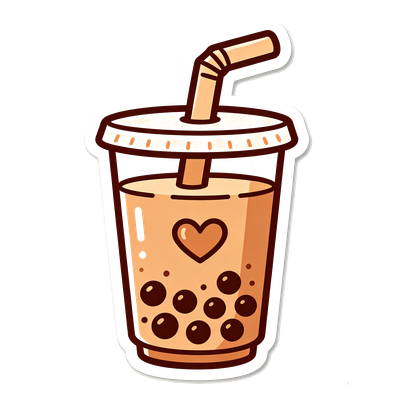
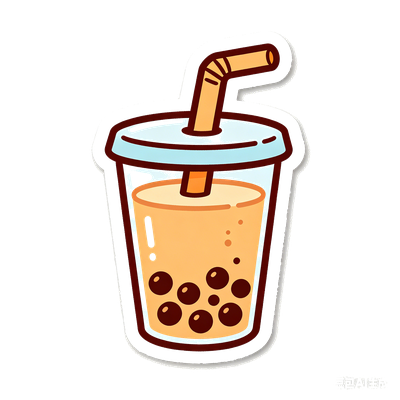
Update descriptions, fix line breaks, replace milktea image, darken card border
- Sync all 16 food descriptions from Obsidian draft
- Fix description rendering: split on \n instead of \n\n
- Fix calorieCompare line break: whitespace-pre-line + leading-snug
- Replace milktea image with new sticker illustration
- Darken result card border from orange-100 to orange-300

Changed region(s): [[0.24, 0.06, 0.78, 0.96]]

diff --git a/lib/data.ts b/lib/data.ts
@@ -20,83 +20,83 @@ export interface Food {
 export const FOODS: Food[] = [
   {
     id: "taoso", name: "桃酥", emoji: "🥮", vector: [0, 0, 0, 0],
-    description: "不是所有人都懂你的好，而你也不需要所有人懂。你就这样酥酥脆脆地保持自我，等着某一天某一个人突然长大了悟到了你的美味。你是被时间筛选过的垃圾食品，虽然吃完一地碎屑也不好清理。\n\n桃酥最好是配茶？配咖啡？还是什么都不用配 做自己最好了。\n\n依稀记得某溪河还是某记桃酥有创新口味来着？但只有原味纯粹的你最有记忆点。",
-    portion: "3块 ≈ 150g", kcal: 721, calorieCompare: "≈ 45根黄瓜（全部吃完要4小时）",
+    description: "不是所有人都懂你的好，而你也不需要所有人懂。你就这样酥酥脆脆地保持自我，等着某一天某一个人突然长大了悟到了你的美味。你是被时间筛选过的垃圾食品，虽然吃完一地碎屑也不好清理。\n桃酥最好是配茶？配咖啡？还是什么都不用配 做自己最好了。\n依稀记得某溪河还是某记桃酥有创新口味来着，但似乎只有原味纯粹的你最有记忆点。",
+    portion: "3块 ≈ 150g", kcal: 721, calorieCompare: "≈ 45根黄瓜\n（全部吃完要4小时）",
   },
   {
     id: "crayfish", name: "小龙虾", emoji: "🦞", vector: [0, 0, 0, 2],
-    description: "你是夏天限定版的美味。你的出现就是传说，人类念起你的名字就会自动分泌唾液。不当季的时候也会时常被记挂，只要到了那个季节，那个夜晚，那群人，根本停不下来。壳厚肉甜，费劲但值得。你的信徒知道为什么。\n\n最近好像有啥新东西一直在蹭你的热度，呃是啥来着？不重要，你自有你的鲜香麻辣/蒜香油润。",
-    portion: "一份带壳 ≈ 500g，净肉约200g", kcal: 230, calorieCompare: "≈ 3个水煮蛋（剥壳消耗的热量已经快抵消了）",
+    description: "你是夏天限定版的美味。你的出现就是传说。人类念起你的名字就会自动分泌唾液。不当季的时候也会时常被记挂，只要到了那个季节，那个夜晚，那群人，根本停不下来。壳厚肉甜，费劲但值得。\n最近好像有啥新东西一直在蹭你的热度，呃是啥来着？不重要，你自有你的鲜香麻辣/蒜香油润。",
+    portion: "一份带壳 ≈ 500g，净肉约200g", kcal: 230, calorieCompare: "≈ 3个水煮蛋\n（剥壳消耗的热量已经快抵消了）",
   },
   {
     id: "salad", name: "多酱版鸡胸肉沙拉", emoji: "🥗", vector: [0, 0, 2, 0],
-    description: `你是垃圾食品里的异类。表面健康自律，满满都是蛋白质和纤维素。但点击"多放沙拉酱"选项也是人之常情吧、、你从不会标榜自己是什么垃圾食品，但你从来没骗过任何人。只是有些真相，不说而已。\n\n号称身材管理的人将你视若珍宝，但你只默默地当带刺玫瑰。"有本事不加酱，小心得厌食症。"你如是说。`,
-    portion: "一份加酱 ≈ 350g", kcal: 420, calorieCompare: "≈ 8个西红柿（但那勺沙拉酱独自贡献了150kcal）",
+    description: `你是垃圾食品里的异类。表面健康自律，满满都是蛋白质和纤维素。但选择"多放沙拉酱"也是人之常情吧、、你不主动宣传自己有多垃圾，但你从来没骗过任何人。只是有些真相，不说而已。\n号称身材管理的人将你视若珍宝，但你只默默地当带刺玫瑰。"有本事不加酱，小心得厌食症。"你如是说。`,
+    portion: "一份加酱 ≈ 350g", kcal: 420, calorieCompare: "≈ 8个西红柿\n（但沙拉酱独自贡献了200kcal）",
   },
   {
     id: "noodles", name: "泡面", emoji: "🍜", vector: [0, 0, 2, 2],
-    description: `深夜十二点，开水倒进去，整个房间充斥着迷人危险气息。室友会忍不住问"能给我来一口吗"。其实你不耀眼，包装也没有什么说头，但那一刻谁都知道你是正确答案。其实也有很多人莫名其妙隔一段时间就想到你。\n\n毕竟不需要洗餐具。但人类请记得把吃剩的面汤倒厕所后再丢弃。`,
-    portion: "一包含料包 ≈ 100g", kcal: 460, calorieCompare: "≈ 28根黄瓜（深夜的正确答案，黄瓜做不到）",
+    description: `深夜十二点，开水倒进去，整个房间充斥着迷人危险气息。室友会忍不住问"能给我来一口吗"。其实你不耀眼，包装也没有什么说头，但那一刻谁都知道你是正确答案。其实也有很多人莫名其妙隔一段时间就想到你。\n毕竟不需要洗餐具。但你总是叮嘱人类请记得把吃剩的面汤倒厕所后再丢弃。`,
+    portion: "一包含料包 ≈ 100g", kcal: 460, calorieCompare: "≈ 28根黄瓜\n（深夜的满足感，黄瓜给不了）",
   },
   {
     id: "milktea", name: "奶茶", emoji: "🧋", vector: [0, 2, 0, 0],
-    description: "你是情绪的换算单位。一杯奶茶等于「今天辛苦了」，等于「我们好久没见了」，等于某个秋天下午被需要的感觉。小料有好多好多种，但是如果某个小料今天卖完了，人也不会失望地转头就走，因为只要是你就可以。\n\n大家喜欢你，你也知道大家喜欢你。但是你的底线是：不背刺爱你的人。这一点，你的很多竞品都没有做到。",
-    portion: "一杯全糖含珍珠 ≈ 500ml", kcal: 430, calorieCompare: "≈ 8个苹果（今天辛苦了 = 8个苹果的热量）",
+    description: "你是情绪的换算单位。一杯奶茶等于「今天辛苦了」，等于「我们好久没见了」，等于某个秋天下午被需要的感觉。小料有好多好多种，但是如果今天某个小料卖完了，人也不会失望地转头就走，因为只要是你就可以。\n大家喜欢你，你也知道大家喜欢你。但是你的底线是：不背刺爱你的人。这一点，你的很多竞品都没有做到。",
+    portion: "一杯全糖含珍珠 ≈ 500ml", kcal: 430, calorieCompare: "≈ 8个苹果\n（今天辛苦了 = 8个苹果的热量）",
   },
   {
     id: "fries", name: "薯条", emoji: "🍟", vector: [0, 2, 0, 2],
-    description: "刚出锅的时候是绝对的神。闻到味道，腿就走过去了，脑子还没反应过来。人会花一小时争论哪家做的薯条最好吃，争论无果后逐一买来做测评。\n\n有人爱蘸番茄酱，有人不要酱，但是几乎没人不爱你吧。你以对的温度和咸味出现，然后所有人都说好吃好吃。凉了不行，这一点你坦诚告知。",
-    portion: "中份 ≈ 120g", kcal: 374, calorieCompare: "≈ 23根黄瓜（腿走过去前，脑子没来得及数）",
+    description: "刚出锅的时候是绝对的神。人会花一小时争论哪家做的薯条最好吃，争论无果后逐一买来做测评。还有人闭着眼睛都能吃出你是哪家的出品。\n有人爱蘸番茄酱，有人不要酱，但是几乎没人不爱你吧。你以对的温度和咸味出现，所有人都说美味啊绝顶美味。\n凉了不行。",
+    portion: "中份 ≈ 120g", kcal: 374, calorieCompare: "≈ 23根黄瓜\n（全部吃完之前，脑子没来得及数）",
   },
   {
     id: "paineapple", name: "菠萝油", emoji: "🍞", vector: [0, 2, 2, 0],
-    description: "你不是稀有的，但完美状态的你很稀有。不是每家都做得好，做得好的那家，也不是每次去都刚好赶上出炉。热热的菠萝包，冷藏的黄油，缺一不可。冷遇见热的那一口，两个相悖的口感在嘴里融合升华。\n\n懂你的人会卡着时间去找你，吃完了觉得今天运气不错。不懂的人随便什么时候去，拿到一个凉透了的，觉得也没什么特别。你不怪他们。时机这件事，本来就不是所有人都有耐心等的。",
-    portion: "一个 ≈ 130g", kcal: 455, calorieCompare: "≈ 6个水煮蛋（惊喜感是无价的，热量是有价的）",
+    description: "你不是稀有的，但完美状态的你很稀有。不是每家都做得好，做得好的那家也不是每次去都能赶上刚出炉。热热的菠萝包，冷藏的黄油，缺一不可。两个相悖的口感在嘴里融合升华。\n懂你的人会卡着时间去找你，吃完了觉得今天运气真不错。不懂的人随便买个尝尝，拿到一个凉透了的，觉得没什么特别。\n时机这件事，本来就不是所有人都有耐心等的。",
+    portion: "一个 ≈ 130g", kcal: 455, calorieCompare: "≈ 6个水煮蛋\n（惊喜感是无价的，热量是有价的）",
   },
   {
     id: "icecream", name: "冰淇淋", emoji: "🍦", vector: [0, 2, 2, 2],
-    description: "你存在于各种「不应该」里。肠胃不好不应该，生病不应该，减肥期间不应该，但你被需要的那一刻没有人真的在想这些。吃完心情好了，其他的事情以后再说。\n\n你甜甜的又有各种形态，其实会被路过的小孩眼巴巴扒着玻璃围观。什么gelato什么欧洲冻酸奶什么椰子灰，人总想买来尝尝这玩意啥味儿，想着怎么也不会出错吧，但最后应该都要控诉一块冰碴子凭啥卖这么贵，还是老冰棍最好吃。",
-    portion: "一球/一支 ≈ 100g", kcal: 200, calorieCompare: "≈ 4个苹果（今天豁出去了 = 4个苹果）",
+    description: "你存在于各种「不应该」里。肠胃不好不应该，生病不应该，减肥期间不应该，但你被需要的那一刻没有人真的在想这些。吃完心情好了，别的事情以后再考虑。\n你甜甜的又有各种形态，其实会被路过的小孩眼巴巴扒着玻璃围观。\n什么gelato什么欧洲冻酸奶什么椰子灰，人总想买来尝尝这玩意啥味儿，想着怎么也不会出错吧，但最后应该都要控诉一块冰碴子凭啥卖这么贵，还是老冰棍最好吃。",
+    portion: "一球/一支 ≈ 100g", kcal: 200, calorieCompare: "≈ 4个苹果\n（今日份好心情 = 4个苹果的热量）",
   },
   {
     id: "luosifen", name: "螺蛳粉", emoji: "🍝", vector: [2, 0, 0, 0],
-    description: "你永远不需要为自己辩护。有人一经过门口就皱眉，有人专程坐一个小时地铁来找你。你对这两种人的态度是一样的——爱吃就吃，不吃拉倒。\n\n香气比你先到。这件事你知道，也不打算改。有人叫它臭，有人叫它香，反正都是你，反正都记住了。你不解释，也不挽留。喜欢你的人不需要理由，而且一旦喜欢，就很难回头。\n\n其实螺蛳粉里也可以没有螺蛳，但你的灵魂始终独树一帜。",
-    portion: "一包煮好 ≈ 400g", kcal: 560, calorieCompare: "≈ 35根黄瓜（香气先到，黄瓜永远学不会）",
+    description: "你永远不需要为自己辩护。有人一经过门口就皱眉，有人专程坐一个小时地铁来找你。你对这两种人的态度是一样的——爱吃就吃，不吃拉倒。\n味道比你先到人那里。有人叫它臭，有人叫它香，反正都是你，反正都记住了。你不解释，也不挽留。喜欢你的人不需要理由，而且一旦爱上，就很难回头。\n其实螺蛳粉里也可以没有螺蛳，但你的灵魂始终独树一帜。吃起来应该就是像美食博主测评的一样美妙吧。",
+    portion: "一包煮好 ≈ 400g", kcal: 560, calorieCompare: "≈ 35根黄瓜\n（你的独特魅力，黄瓜永远学不会）",
   },
   {
     id: "soda", name: "汽水", emoji: "🥤", vector: [2, 0, 0, 2],
-    description: "啵——那声开罐声就是你的出场BGM。你根本不需要解释和宣传。第一口最冲，气最足，有点想咳嗽但忍住了。\n\n有人说喝无糖的比较健康。好吧，0糖0脂0卡版的你依然让人上瘾，似乎还有研究表明那些甜味剂更不健康来着（你只是道听途说）。你从没骗过任何人，你只是没主动说清楚。\n\n据说有腐蚀性。嗯，也许吧。谁在乎呢，你好喝。",
-    portion: "一罐 ≈ 330ml", kcal: 140, calorieCompare: "≈ 9根黄瓜（啵一声，9根黄瓜的努力没了）",
+    description: "啵——那声开罐声就是你的出场BGM。你根本无需宣传代言。第一口最冲，气最足，有点想咳嗽但忍住了。\n有人说喝无糖的比较健康。好吧，0糖0脂0卡版的你依然让人上瘾，似乎还有研究表明那些甜味剂更不健康来着（你只是道听途说）。你从没骗过任何人，你只是没主动说清楚。\n据说有腐蚀性。嗯，也许吧。谁在乎呢，你好喝。",
+    portion: "一罐 ≈ 330ml", kcal: 140, calorieCompare: "≈ 9根黄瓜\n（黄瓜能产生气泡吗？）",
   },
   {
     id: "sausage", name: "淀粉肠", emoji: "🌭", vector: [2, 0, 2, 0],
-    description: "你的成分是一个谜，而且是那种查了也不想知道答案的谜。网上每隔一段时间就有人发帖考证你到底是什么做的，评论区吵成一片，然后大家该买还是买。\n\n三块钱一根，五块钱两根。路过就买，不需要理由，也不需要饿。咬下去，外面脆，里面烫，必定烫嘴，每次都烫，每次都没有吸取教训。\n\n你不宣传自己的内在。内在也确实神秘。但烤得金黄焦脆的外皮告诉所有人：来吃，其他的事情不重要。",
-    portion: "一根烤好 ≈ 80g", kcal: 192, calorieCompare: "≈ 2.5个水煮蛋（成分是谜，热量是实）",
+    description: "你的成分是一个谜，而且是那种查了也不想知道答案的谜。网上每隔一段时间就有人发帖考证你到底是什么做的，评论区吵成一片，然后大家该吃还是吃。\n三块钱一根，五块钱两根。路过就买，不需要理由，也不需要饿。咬下去，外面脆，里面烫，必定烫嘴，每次都烫，每次都没有吸取教训。\n你不宣传自己的内在。内在也确实神秘。但烤得金黄焦脆的外皮告诉所有人：来吃。",
+    portion: "一根烤好 ≈ 80g", kcal: 192, calorieCompare: "≈ 2.5个水煮蛋\n（成分是谜，热量是实）",
   },
   {
     id: "latiao", name: "辣条", emoji: "🌶", vector: [2, 0, 2, 2],
-    description: "包装看着凶，颜色看着辣，但吃进嘴里是甜的。你也不是故意讨好小学生。\n\n喜欢你的人有一种共同的记忆——校门口小卖部，五毛钱，伸手就有。撕开的那一瞬，手上沾了红油，随便往哪一蹭，开吃。\n\n有时候是在课堂上。本来打算悄悄吃，结果袋子一撕，全世界都知道了。老师还没说话，同桌已经伸手过来了。你就这样毫无预兆地成为全场焦点。",
-    portion: "一包 ≈ 65g", kcal: 260, calorieCompare: "≈ 16根黄瓜（甜的，但账单很辣）",
+    description: "包装看着凶，颜色看着辣，但吃进嘴里是甜的。你也不是故意讨好小学生。\n喜欢你的人有一种共同的记忆——校门口小卖部，五毛钱，伸手就有。撕开的那一瞬，手上沾了红油，随便往哪一抹，开吃。\n有时候你在课堂上。本来打算悄悄吃，结果袋子一撕，全世界都知道了。老师还没说话，同桌已经伸手过来了。你就这样毫无预兆地成为全场焦点。",
+    portion: "一包 ≈ 65g", kcal: 260, calorieCompare: "≈ 16根黄瓜\n（小孩能忽略的卡路里）",
   },
   {
     id: "chicken", name: "炸鸡", emoji: "🍗", vector: [2, 2, 0, 0],
-    description: `韩剧里总有人在哭着吃炸鸡配啤酒。你不觉得夸张，反而觉得合理。有些情绪不需要被解决，只需要被喂饱。你不是那种需要找理由才能吃的食物，而是人类隔一段时间就会突然非你不可的存在。\n\n你总那么坦荡，不为高热量道歉。不过偶尔品控不稳定或者吃出异物的时候会被喷"热量这么高还敢出错"罢了。`,
-    portion: "两块鸡腿/翅 ≈ 200g", kcal: 540, calorieCompare: "≈ 7个水煮蛋（坦荡，高热量，不道歉）",
+    description: `韩剧里总有人在哭着吃炸鸡配啤酒。你不觉得夸张。有些情绪不需要被解决，只需要被喂饱。你不是那种需要找具体理由才能吃的垃圾食品啦，人类隔一段时间就会突然非你不可。\n你总那么坦荡，不为高热量道歉。不过偶尔品控不稳定或者吃出异物的时候会被喷"热量这么高还敢出错"罢了。`,
+    portion: "两块鸡腿/翅 ≈ 200g", kcal: 540, calorieCompare: "≈ 7个水煮蛋\n（坦荡，高热量，不道歉）",
   },
   {
     id: "chips", name: "薯片", emoji: "🥔", vector: [2, 2, 0, 2],
-    description: "走进超市，零食区最引人注目的就是你。新口味出了很多。蟹黄味、松露味、xx明星联名款、xx城市限定。很热闹。\n\n但购物车里最后加的还是原味。\n\n油炸的，脆脆的，膨化食品，土豆片。一旦拆封就停不下来，你就是这样让人欲罢不能而已。",
-    portion: "一袋 ≈ 75g", kcal: 413, calorieCompare: "≈ 26根黄瓜（拆开袋子，黄瓜已成过去式）",
+    description: "走进超市，零食区最引人注目的就是你。新口味出了很多。蟹黄味、松露味、xx明星联名款、xx城市限定。很热闹。\n但购物车里最后加的还是原味。\n油炸的，脆脆的，膨化食品，土豆片。一旦拆封就停不下来，你就是这样让人欲罢不能而已。",
+    portion: "一袋 ≈ 75g", kcal: 413, calorieCompare: "≈ 26根黄瓜\n（黄瓜味薯片也好吃）",
   },
   {
     id: "burger", name: "汉堡", emoji: "🍔", vector: [2, 2, 2, 0],
-    description: "面包、生菜、肉饼、番茄，拆开来看朴实无华，你却是名副其实的垃圾食品代表。不过你出现在哪里都不违和。十几二十块的快餐店有你，人均300的精品burger馆也有你。你在哪都可以是主角正餐，吃完可能再也容不下别的食物了。\n\n垃圾食品里最体面的，体面食物里最垃圾的。你对此毫无愧疚。",
-    portion: "一个普通款 ≈ 200g", kcal: 520, calorieCompare: "≈ 10个苹果（放纵版本的自己，10个苹果的代价）",
+    description: "面包、生菜、肉饼、番茄，拆开来看朴实无华，你却是名副其实的垃圾食品代表。不过你出现在哪里都不违和。十几二十块的快餐店有你，人均300的精品burger馆也有你。\n你在哪都可以是主角正餐，吃完可能再也容不下别的食物了。\n垃圾食品里最体面的，体面食物里最垃圾的。你对此毫无愧疚。",
+    portion: "一个普通款 ≈ 200g", kcal: 520, calorieCompare: "≈ 10个苹果\n（当正餐吃吧又没关系）",
   },
   {
     id: "cookie", name: "饼干", emoji: "🍪", vector: [2, 2, 2, 2],
-    description: "所有人都觉得认识你，但没有人真的研究过你。童年回忆，春节必囤，国民零食，随便哪个词都能套上去。很少有人会专门发帖说你好吃。但也没有人说不喜欢你。茶几上，办公室零食篮里，酥酥脆脆，有甜有咸。手边总是有你，就顺嘴吃了很多。\n\n直到有一天翻开配料表——哦。酥酥脆脆，原来都是有代价的。原来你没欺骗过任何人。你只是从来不主动介绍自己。",
-    portion: "半包夹心饼干 ≈ 80g", kcal: 390, calorieCompare: "≈ 5个水煮蛋（人畜无害，停不下来，嘿嘿）",
+    description: "所有人都觉得认识你，但没有人真的研究过你。\n童年回忆，春节必囤，国民零食，随便哪个词都能套上去。很少有人会专门发帖说你好吃。但也没有人说不喜欢你。茶几上，办公室零食篮里，酥酥脆脆，有甜有咸。手边总是有你，就顺嘴吃了很多。\n直到有一天翻开配料表——哦。酥酥脆脆，原来都是有代价的。原来你没欺骗过任何人。你只是从来不主动介绍自己。",
+    portion: "半包夹心饼干 ≈ 80g", kcal: 390, calorieCompare: "≈ 5个水煮蛋\n（小饼干，大热量）",
   },
 ];
 
@@ -135,12 +135,12 @@ export const QUESTIONS: Question[] = [
   {
     id: 8,
     dimension: "ENERGY",
-    text: "作为食物本物，你的赋能感在于……",
+    text: "作为垃圾食品，你的赋能感在于……",
     options: [
-      { text: "人类寂寞时需要我的陪伴", scores: { ENERGY: 1 } },
-      { text: "我总会在特定的场合/时间段出现", scores: { ENERGY: 0 } },
-      { text: "被无条件的爱包围", scores: { ENERGY: 2 } },
-      { text: "好吃，仅此而已", scores: { ENERGY: 2 } },
+      { text: "人类无法抵抗我的美味…生理性喜欢罢了", scores: { ENERGY: 2 } },
+      { text: "我一定会在某个场合/时间段被需要", scores: { ENERGY: 0 } },
+      { text: "我可以表达一种特定的情感链接", scores: { ENERGY: 0.5 } },
+      { text: "美味还不够吗？", scores: { ENERGY: 1.5 } },
     ],
   },
   {
@@ -148,8 +148,8 @@ export const QUESTIONS: Question[] = [
     dimension: "SOCIAL",
     text: "货架畅销王是你旁边那位，大家都在关注ta，没几个人看你。你……",
     options: [
-      { text: "哦呵呵…不是所有人类都配得上品鉴我", scores: { SOCIAL: 0.6 } },
-      { text: "我早已不在乎恶评，自有人把我爱惨", scores: { SOCIAL: 1 } },
+      { text: "哦呵呵…不是所有人类都配得上品鉴我", scores: { SOCIAL: 0.5 } },
+      { text: "我早已不在乎恶评，自有人把我爱惨", scores: { SOCIAL: 1.5 } },
       { text: "不可能发生这种事，我的人气不管在哪里都毋庸置疑", scores: { SOCIAL: 2 } },
       { text: "我乐得清闲、、", scores: { SOCIAL: 0 } },
     ],
@@ -162,7 +162,7 @@ export const QUESTIONS: Question[] = [
       { text: "\"就是想象中的味道，感觉小时候抱过我\"", scores: { CONTRAST: 0 } },
       { text: "\"没想到吃起来超香\"", scores: { CONTRAST: 1.5 } },
       { text: "\"（研究一番卡路里后）额你竟然是这样的热量炸弹，终究是错付了\"", scores: { CONTRAST: 2 } },
-      { text: "\"下次还吃，因为品控稳稳的热量高高的，很安心\"", scores: { CONTRAST: 0.5 } },
+      { text: "\"下次还买，因为品控稳稳的热量高高的，很安心\"", scores: { CONTRAST: 0.5 } },
     ],
   },
   {
@@ -171,7 +171,7 @@ export const QUESTIONS: Question[] = [
     text: "你被人类带到了一个完全不属于你的场合（比如高档餐厅的餐桌上（噢没有说你低档的意思！））。你感觉……",
     options: [
       { text: "格格不入，俺要回村", scores: { ACTIVATION: 0.5 } },
-      { text: "无所谓，本品在哪都将惊艳全场", scores: { ACTIVATION: 2 } },
+      { text: "无所谓，本品在哪都将惊艳全场", scores: { ACTIVATION: 1.5 } },
       { text: "我仅需等一个懂我的人类出现", scores: { ACTIVATION: 0 } },
       { text: "拜托！这种场合是其它食物蹭我的热度好吗", scores: { ACTIVATION: 2 } },
     ],
@@ -179,11 +179,11 @@ export const QUESTIONS: Question[] = [
   {
     id: 9,
     dimension: "ENERGY",
-    text: "有人类说「我这辈子都不会吃xx」。你怎么看？",
+    text: "有人类说「我这辈子都不会吃xx」，说的就是你。你怎么看？",
     options: [
       { text: "ta应该不是人类啵 哦呵呵……^ ^", scores: { ENERGY: 2 } },
-      { text: "其实呢，人类都会有需要我的时候，你不需要我只是因为你现在不需要，但是总有一天你会突然理解我的好", scores: { ENERGY: 1 } },
-      { text: "也许ta还没到能欣赏我的年纪", scores: { ENERGY: 0.7 } },
+      { text: "其实呢，人类都会有需要我的时候，你不需要我只是因为你现在不需要，但是总有一天你会突然理解我的好", scores: { ENERGY: 1.5 } },
+      { text: "也许ta还没到能欣赏我的年纪", scores: { ENERGY: 0.5 } },
       { text: "愚昧的人类", scores: { ENERGY: 0 } },
     ],
   },
@@ -192,7 +192,7 @@ export const QUESTIONS: Question[] = [
     dimension: "SOCIAL",
     text: "如果你可以在外包装上印一句宣传语，你会印哪句？",
     options: [
-      { text: "「姥天！究极美味！」", scores: { SOCIAL: 0.6 } },
+      { text: "「究极美味！」", scores: { SOCIAL: 1 } },
       { text: "爱吃不吃 我无需宣传", scores: { SOCIAL: 0 } },
       { text: "「有品的自会懂」", scores: { SOCIAL: 1 } },
       { text: "「全年销量可绕地球xx圈」", scores: { SOCIAL: 2 } },
@@ -204,7 +204,7 @@ export const QUESTIONS: Question[] = [
     text: "如果你一夜之间莫名其妙上了热搜黑榜，你觉得最可能是因为……",
     options: [
       { text: "我太美妙，被对家看不顺眼买通稿了", scores: { CONTRAST: 2 } },
-      { text: "卫生问题吧嘻嘻，但又怎样呢", scores: { CONTRAST: 0 } },
+      { text: "卫生问题吧嘻嘻，但又怎样呢", scores: { CONTRAST: 1 } },
       { text: "控诉我不符合《中国居民膳食指南》推荐的饮食结构", scores: { CONTRAST: 0 } },
       { text: "恶评不看（其实是因为看了会创伤应激", scores: { CONTRAST: 1 } },
     ],
@@ -212,10 +212,10 @@ export const QUESTIONS: Question[] = [
   {
     id: 4,
     dimension: "SOCIAL",
-    text: "有人类发了一条「这个xx真的难吃 恶心 避雷」，说的就是你。你第一反应是？",
+    text: "有人类发了一条「这个xx真的难吃 恶心 避雷」。你第一反应是？",
     options: [
       { text: "我管你喜欢什么。。0人在乎你的评价吧", scores: { SOCIAL: 0 } },
-      { text: '只一味打开收藏夹反复观看人类的各种"绝绝子""美味到跺jiojio"', scores: { SOCIAL: 1.5 } },
+      { text: '只一味打开收藏夹反复观看人类的各种"绝绝子""美味到跺jiojio"', scores: { SOCIAL: 1 } },
       { text: "此人品味太小众，爱我的人已排到巴黎", scores: { SOCIAL: 1 } },
       { text: '破防捶墙尖叫"这绝不可能！！！"', scores: { SOCIAL: 2 } },
     ],

diff --git a/app/page.tsx b/app/page.tsx
@@ -16,7 +16,7 @@ export default function Home() {
 
   async function shareResult() {
     const url = window.location.href;
-    const text = `我测出来是${prefix ? prefix : ""}${result?.name}！反正都是垃圾食品，你是哪种？`;
+    const text = `我测出来是${prefix ? prefix : ""}${result?.name}！反正都是垃圾食品，你是哪种美味的垃圾呢？`;
     if (navigator.share) {
       await navigator.share({ title: "假如你是一种垃圾食品", text, url });
     } else {
@@ -127,7 +127,7 @@ export default function Home() {
   }
 
   if (phase === "result" && result) {
-    const descParagraphs = result.description.split("\n\n");
+    const descParagraphs = result.description.split("\n");
     const kcalPercent = Math.round((result.kcal / 767) * 100);
 
     return (
@@ -135,7 +135,7 @@ export default function Home() {
         <div className="max-w-md w-full space-y-6">
 
           {/* 结果卡片 */}
-          <div className="bg-amber-50 border border-orange-100 rounded-3xl px-6 pt-8 pb-5 space-y-4">
+          <div className="bg-amber-50 border border-orange-300 rounded-3xl px-6 pt-8 pb-5 space-y-4">
             <p className="text-center text-xs text-orange-300 tracking-widest">假如你是一种垃圾食品</p>
             <img
               src={`/images/${result.id}.png`}
@@ -163,7 +163,7 @@ export default function Home() {
                   <p className="text-2xl font-semibold text-gray-800">{result.kcal} <span className="text-xs font-normal text-gray-400">kcal</span></p>
                   <p className="text-xs text-gray-600 mt-0.5">{result.portion}</p>
                 </div>
-                <p className="text-xs text-gray-600 text-right leading-relaxed max-w-[160px]">{result.calorieCompare}</p>
+                <p className="text-xs text-gray-600 text-right leading-snug max-w-[160px] whitespace-pre-line">{result.calorieCompare}</p>
               </div>
               <div className="h-1 bg-orange-100 rounded-full">
                 <div className="h-1 bg-orange-400 rounded-full" style={{ width: `${Math.min(kcalPercent, 100)}%` }} />
@@ -172,7 +172,7 @@ export default function Home() {
             {/* 截图钩子 */}
             <div className="pt-1 border-t border-orange-100 flex items-center justify-between">
               <p className="text-xs text-gray-400">测你的结果 → junk-food-quiz.vercel.app</p>
-              <p className="text-xs text-gray-400">@西葫芦</p>
+              <p className="text-xs text-gray-400">@西葫芦爆炒鸡蛋</p>
             </div>
           </div>
 
